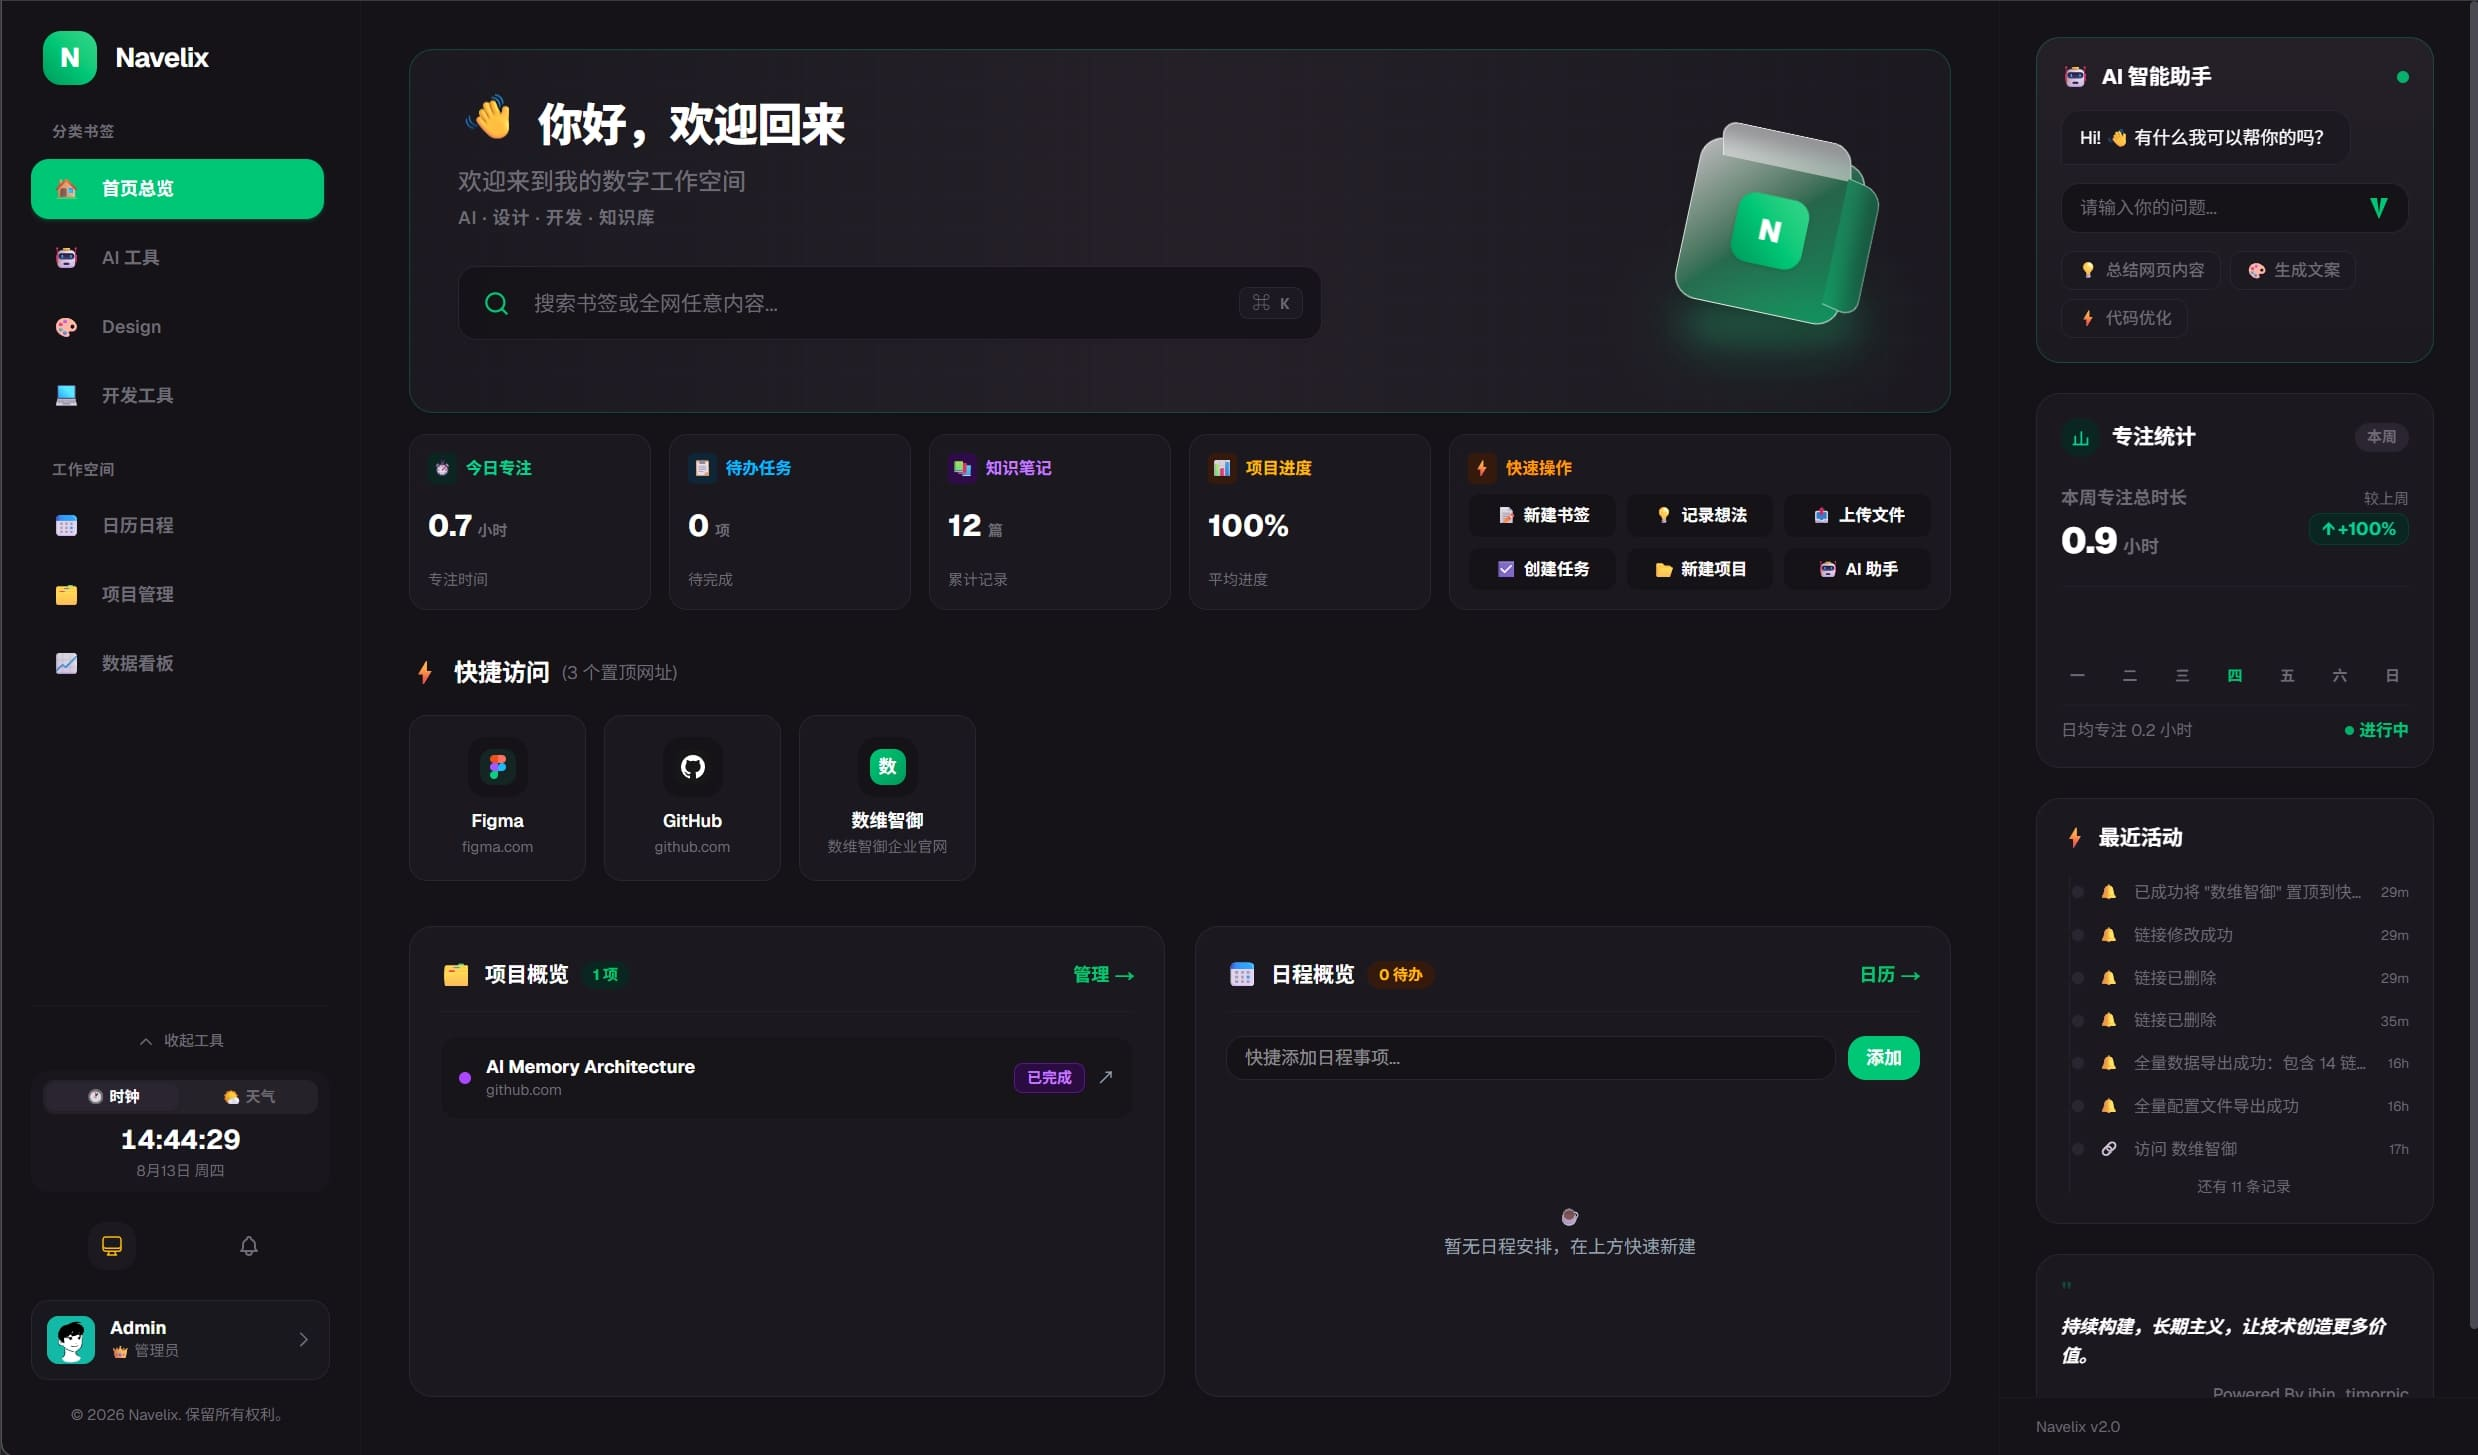
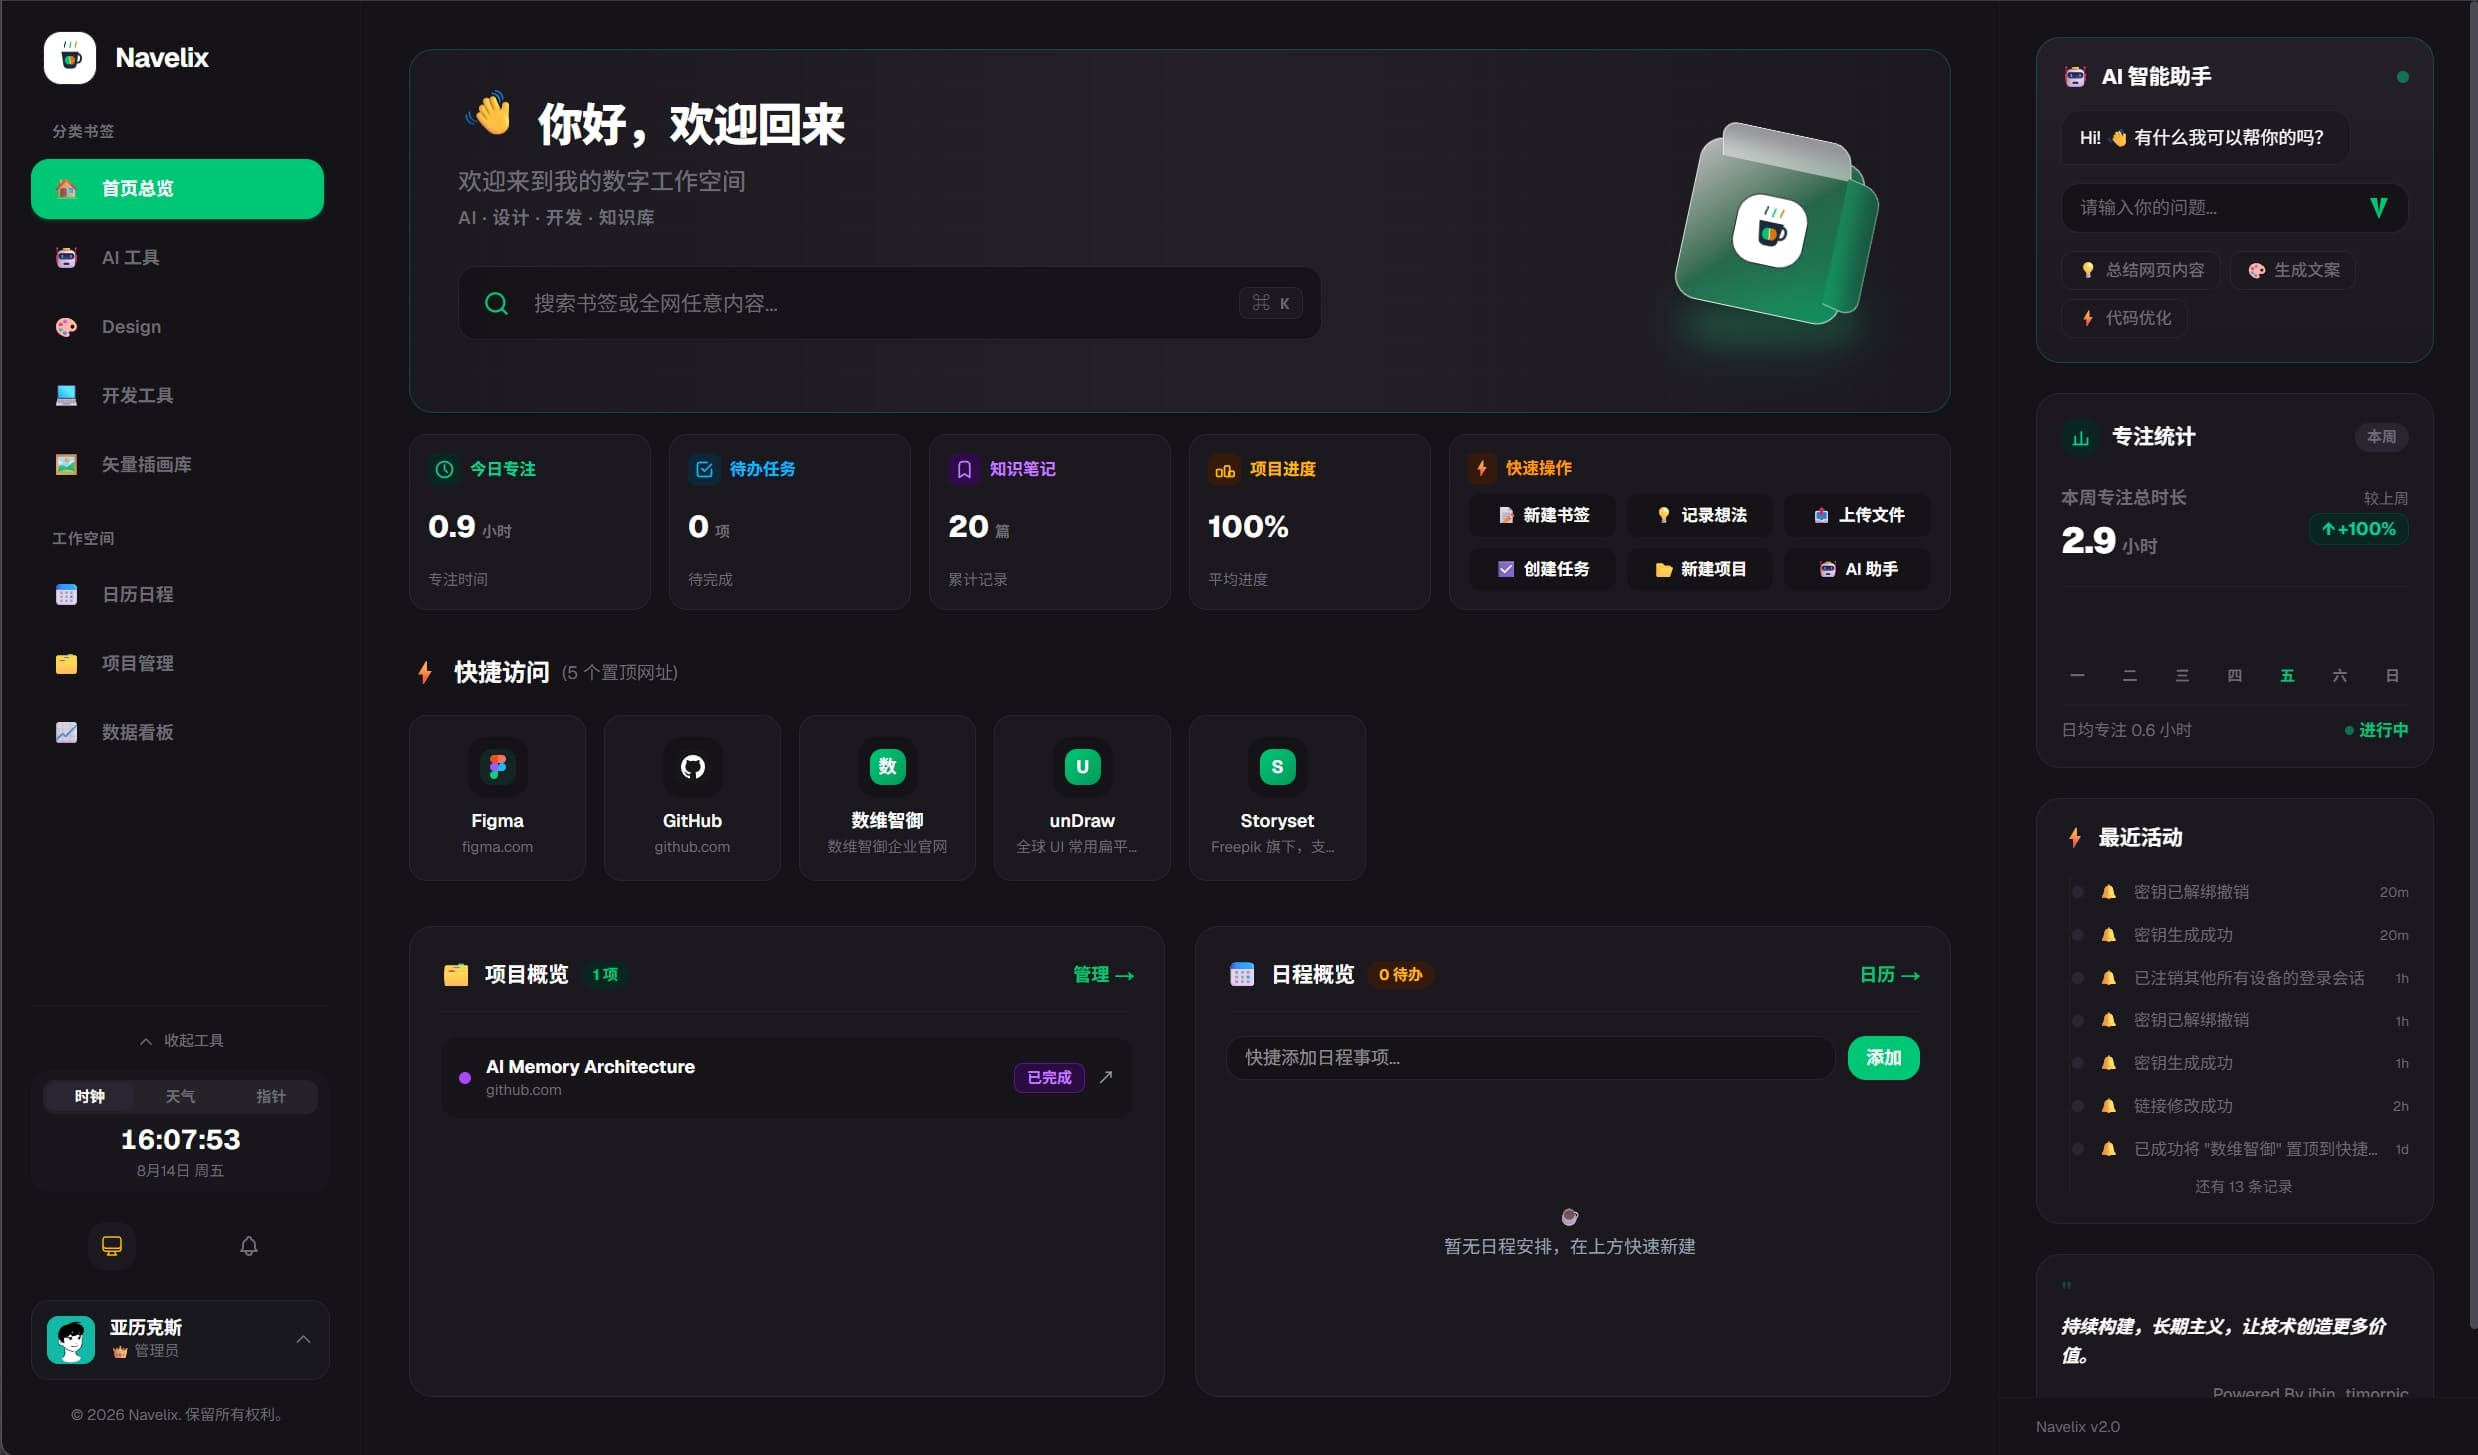
feat: 更新 README.md，增加功能特性描述；替换和添加截图

diff --git a/README.md b/README.md
@@ -17,13 +17,24 @@
 
 ## 功能特性
 
-- **网址导航**：链接管理、分类筛选、快捷访问、多搜索引擎支持、全局 `⌘ K` / `Ctrl+K` 快速聚焦搜索、图标自定义（上传 / Iconify / favicon）、在线状态检测、书签导入导出（Sun-Panel / Chrome / HTML）
-- **安全与防护**：内置 SSRF 防护（SafeFetch 校验）、全局 CSRF 校验、登录 Rate Limit 防伪造、HttpOnly Cookie 会话控制、密钥安全不下发
-- **高可用与自动备份**：SQLite 级联删除 (CASCADE)、外键约束校验、`VACUUM INTO` 零锁定热备份（自动循环保留最近 7 份备份）
+- **网址导航**：链接管理、分类筛选、快捷访问、多搜索引擎支持、全局 `⌘ K` / `Ctrl+K` 快速聚焦搜索、图标自定义（上传 / Iconify / favicon）、在线状态巡检、书签导入导出（Sun-Panel / Chrome / HTML）
+- **矢量插画与图标资源**：内置 unDraw、Storyset、DrawKit 等常用矢量插画库与 Iconfont、IconPark、Tabler、Iconoir 等图标库及商用授权指引
+- **安全与访问控制**：
+  - 支持**公开访客模式**（免登录浏览首页）与**私有模式**（未登录强制跳转登录）
+  - 支持**开放/关闭公网注册**，杜绝公网部署被任意注册
+  - 内置 SSRF 防护（SafeFetch 校验）、全局 CSRF 校验、登录 Rate Limit 防暴破、HttpOnly Cookie 会话控制
+- **高可用与物理备份还原**：
+  - SQLite 级联删除 (CASCADE)、外键约束校验、`VACUUM INTO` 零锁定热备份
+  - **一键下载 `.db` 物理快照**，支持上传 `.db` 备份文件一键还原全量数据与所有系统配置
+  - **一键全量 JSON 导出与恢复**，包含全部系统偏好、外观设置与离线数据
+- **系统运维与代码注入**：
+  - **自定义搜索引擎**：支持配置私有搜索引擎（如 SearXNG、内网知识库）与 `%s` URL 模板
+  - **自定义代码与统计探针**：无需修改源码，后台直接注入 Umami / Google Analytics / 百度统计等 `<script>` 探针与全局自定义 CSS
+  - **存储整理与清理**：一键清理历史操作通知，执行 SQLite `VACUUM` 深度碎片整理
 - **AI 智能助手**：集成标准 OpenAI 兼容 API（DeepSeek、ChatGPT、Ollama、Qwen 等），服务端代理请求，Key 不暴露前端
-- **个性化工作台**：浅色/深色/跟随系统主题、自定义 LOGO 与网站文案、自定义头像、专注统计、侧边栏天气与时钟、项目看板
+- **个性化工作台**：浅色/深色/跟随系统主题、自定义 LOGO、全屏背景壁纸、毛玻璃特效、专注番茄钟、侧边栏天气与指针表盘、项目看板、日程待办
 - **管理后台**（`/admin`）：链接/分组/项目/用户管理、个人 API Access Token 密钥管理、活跃会话踢出、个性化外观设置、配置导入导出、访问统计、实时版本更新自检
-- **开放 API & 自动化**：支持 Personal Access Token (`nvx_live_...`) 鉴权，提供完整 [API Wiki 开发文档](file:///C:/Users/timorpic-legion/Documents/Navelix/API_WIKI.md)，轻松集成 iOS 快捷指令、Docker CI/CD 消息推送、Python 自动化脚本与 AI 智能体
+- **开放 API & 自动化**：支持 Personal Access Token (`nvx_live_...`) 鉴权，提供完整 [API Wiki 开发文档](API_WIKI.md)，轻松集成 iOS 快捷指令、Docker CI/CD 消息推送、Python 自动化脚本与 AI 智能体
 - **消息通知**：后台关键操作自动记录，前后台独立通知中心查看与一键标已读
 
 ## 技术栈
